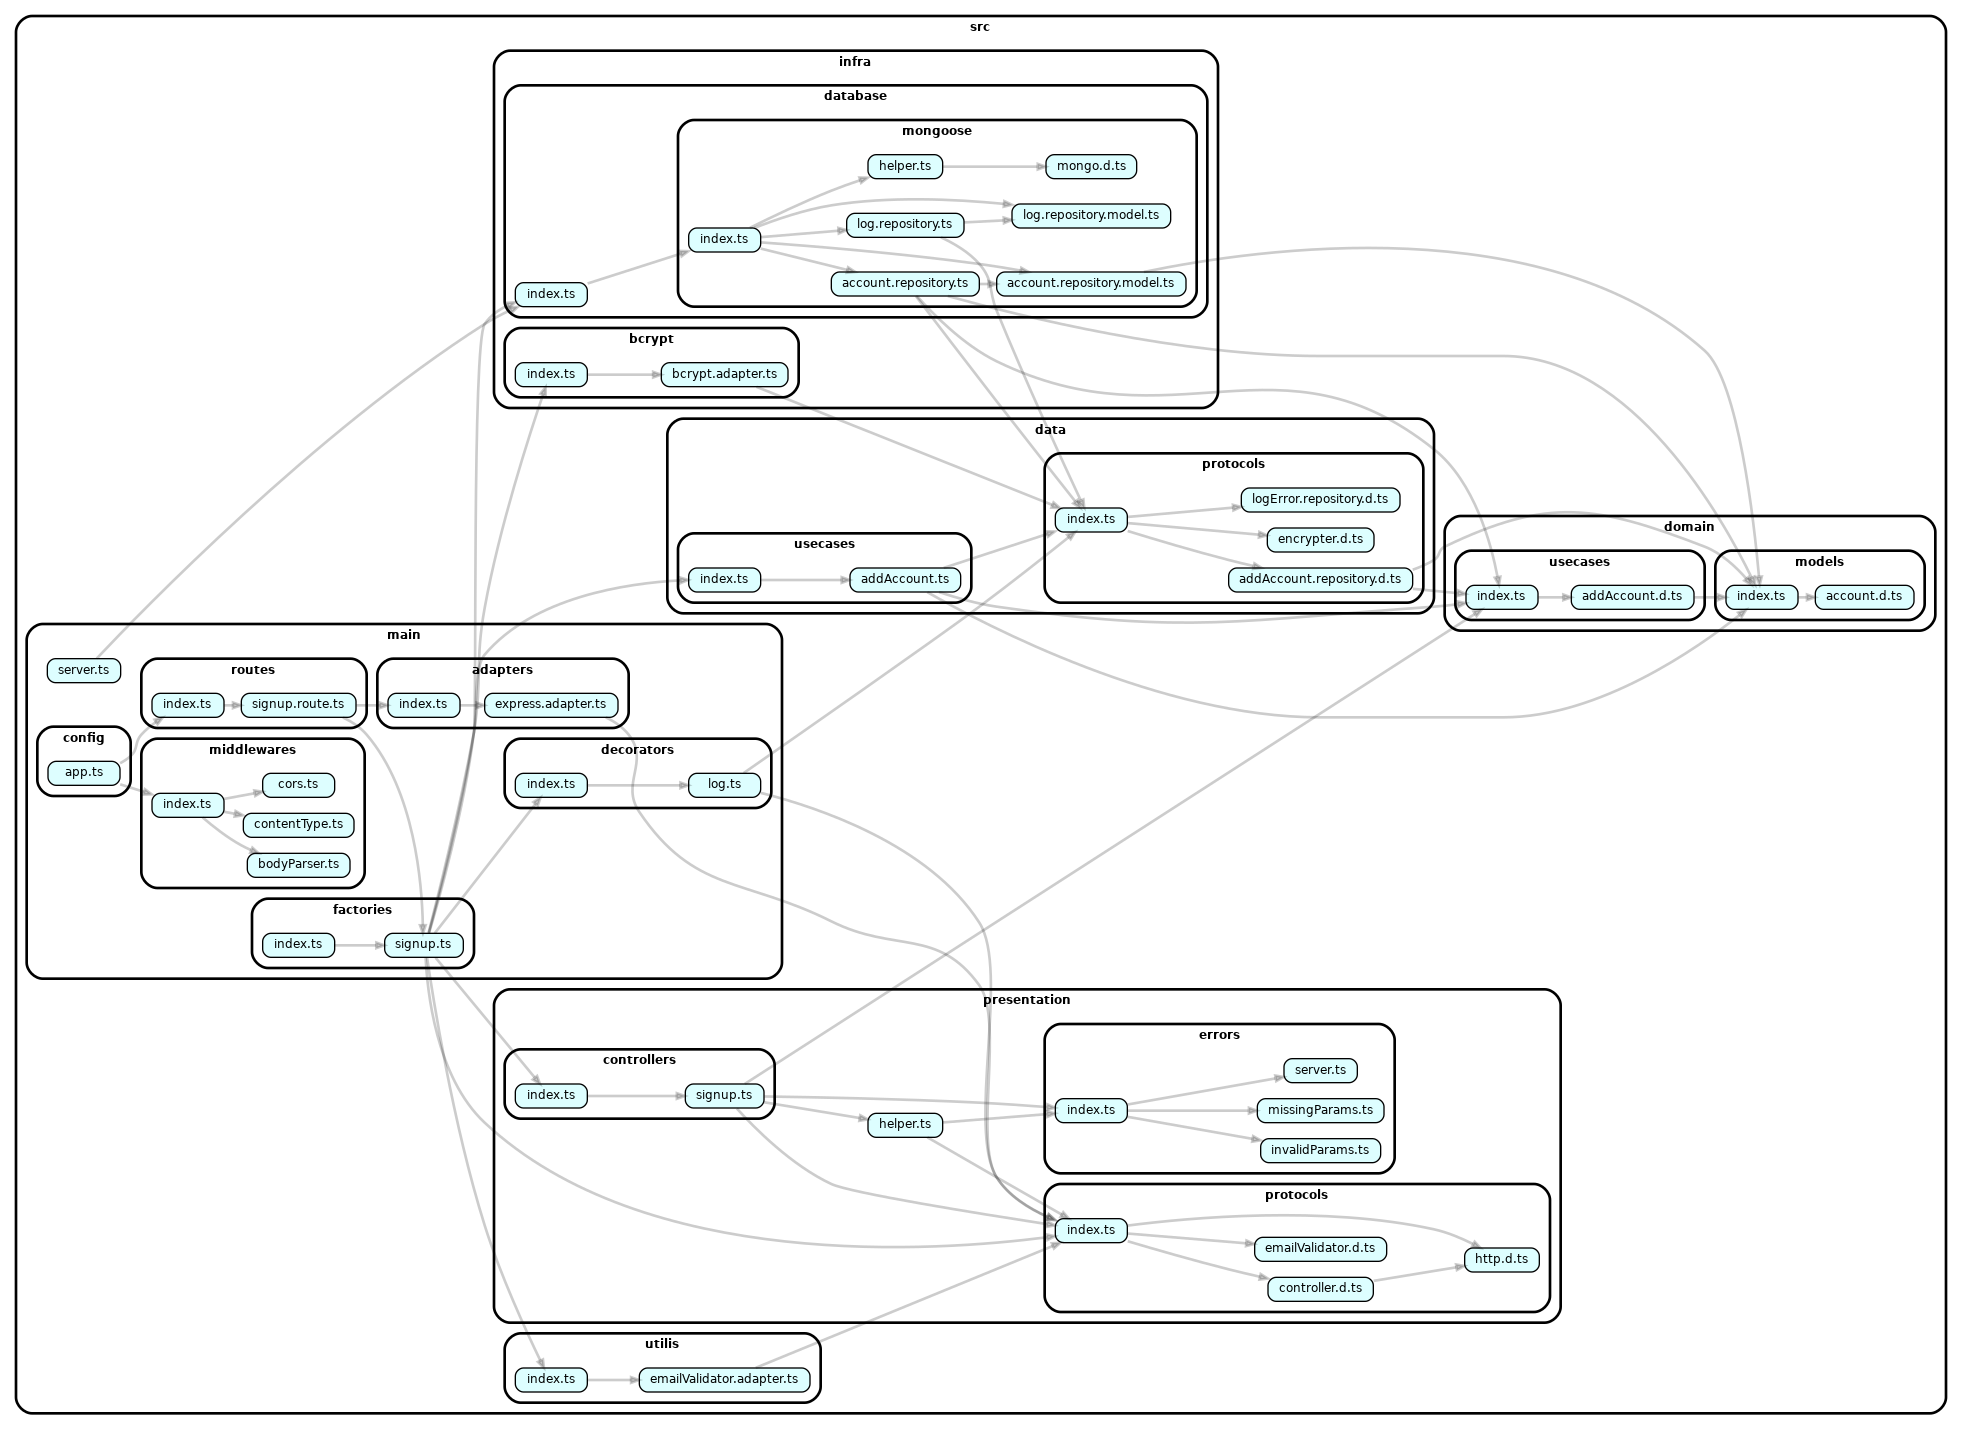
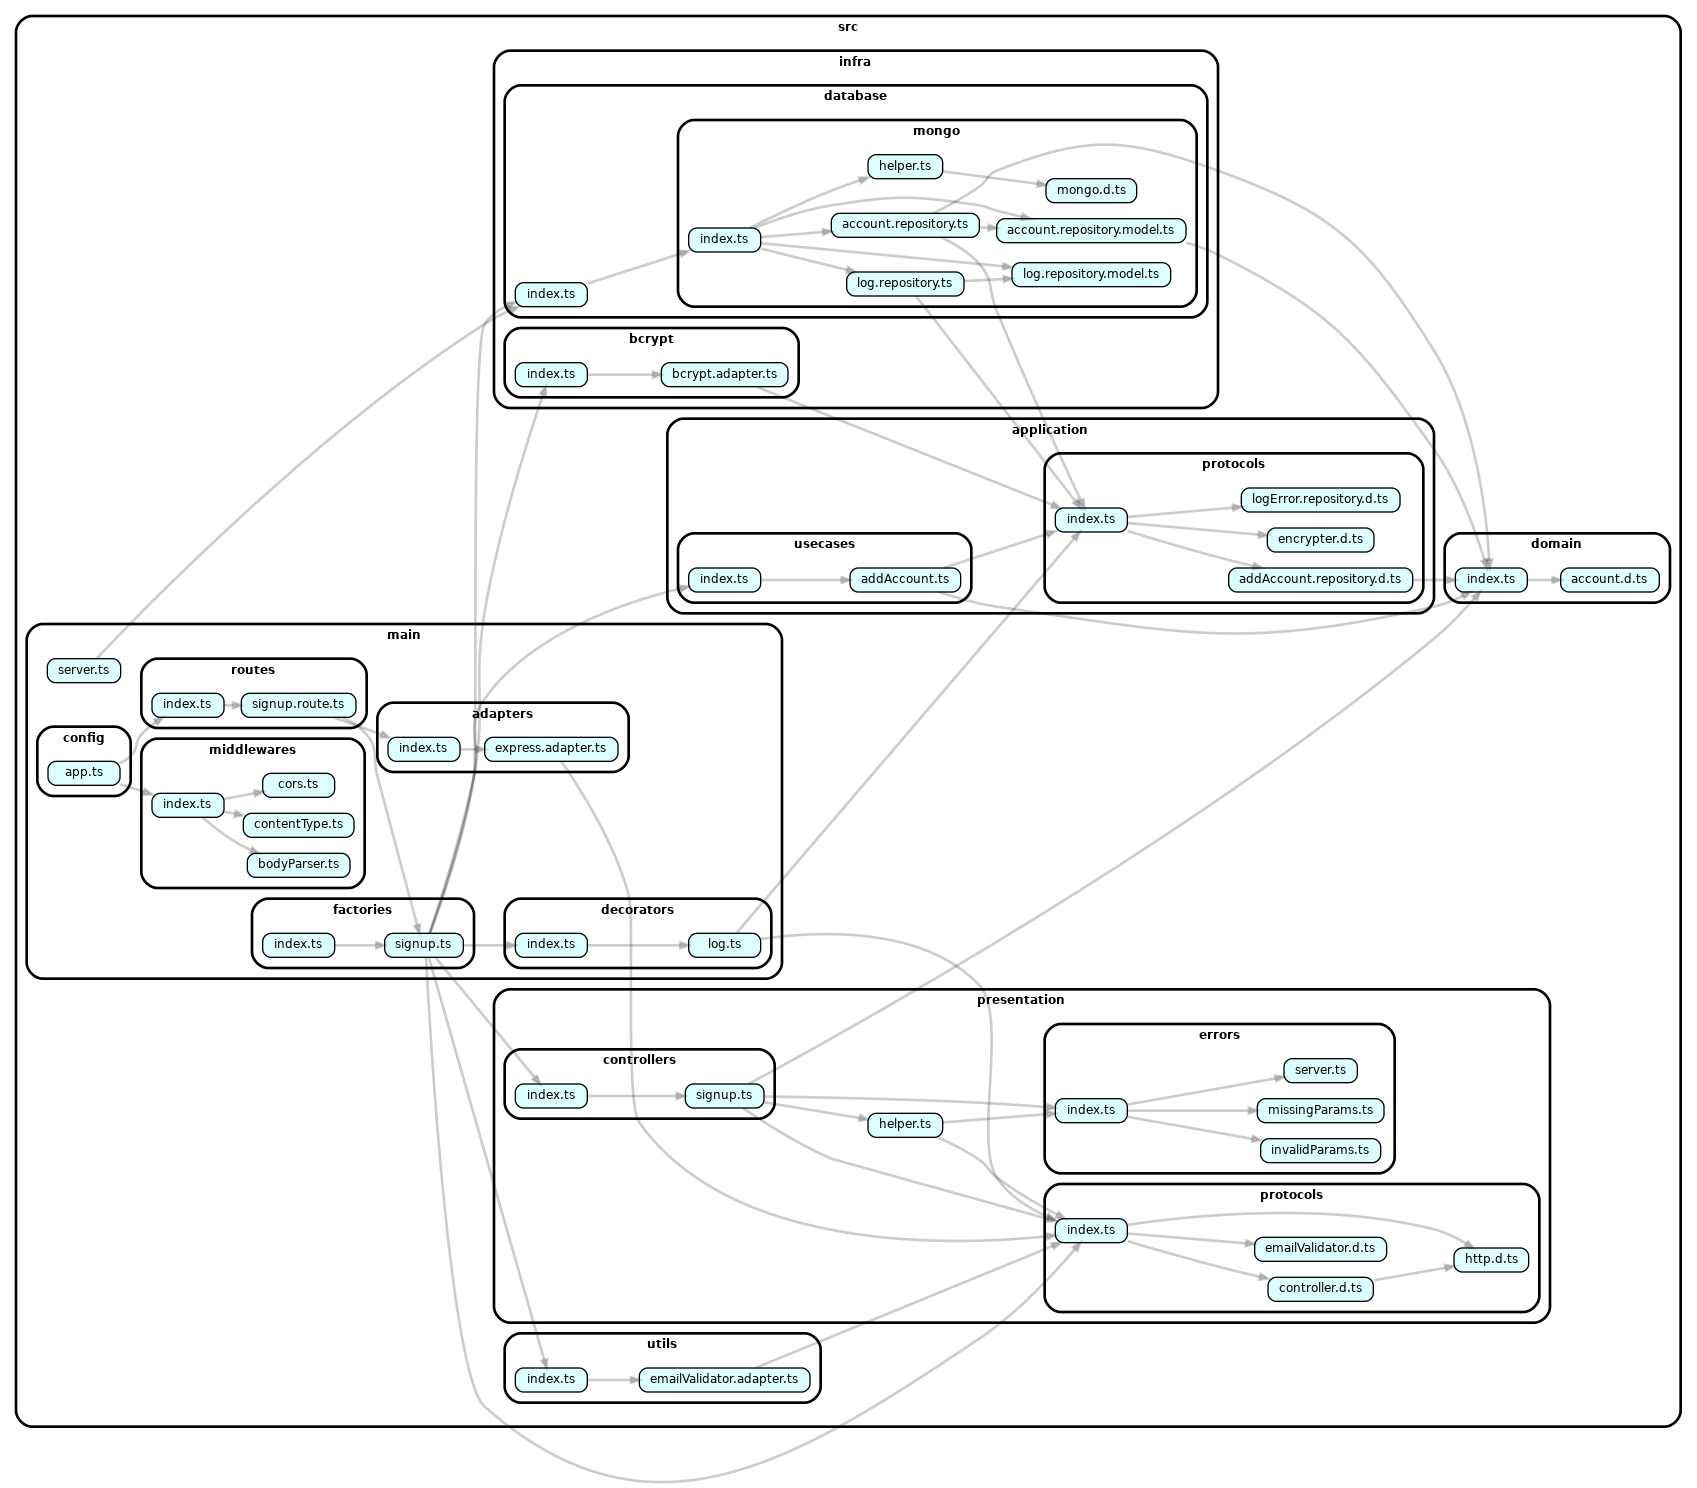
refacto: architecture project

diff --git a/src/infra/database/mongo/helper.ts b/src/infra/database/mongo/helper.ts
@@ -1,6 +1,17 @@
 import { MongoMemoryServer } from 'mongodb-memory-server'
 import mongoose from 'mongoose'
-import { IMongoHelper } from './mongo'
+
+interface IConnect {
+  name: string
+  ip: string
+  port: number
+}
+
+interface IMongoHelper {
+  mongoServer?: MongoMemoryServer
+  connect: (config: Partial<IConnect>) => Promise<void>
+  disconnect: () => Promise<void>
+}
 
 export const MongoHelper: IMongoHelper = {
   mongoServer: undefined,

diff --git a/src/presentation/controllers/signup.spec.ts b/src/presentation/controllers/signup.spec.ts
@@ -1,5 +1,4 @@
-import { IAccountModel } from '../../domain/models'
-import { IAddAccount, IAddAccountModel } from '../../domain/usecases'
+import { IAccountModel, IAddAccount, IAddAccountModel } from '../../domain'
 import { InvalidParamsError, MissingParamsError, ServerError } from '../errors'
 import { ok, badRequest, serverError } from '../helper'
 import { IEmailValidator, IHttpRequest } from '../protocols'

diff --git a/src/infra/database/mongo/account.repository.ts b/src/infra/database/mongo/account.repository.ts
@@ -1,6 +1,5 @@
 import { IAddAccountRepository } from '../../../application/protocols'
-import { IAccountModel } from '../../../domain/models'
-import { IAddAccountModel } from '../../../domain/usecases'
+import { IAccountModel, IAddAccountModel } from '../../../domain'
 import { AccountModelMongo } from './account.repository.model'
 
 export class AccountMongoRepository implements IAddAccountRepository {

diff --git a/src/domain/account.d.ts b/src/domain/account.d.ts
@@ -1,10 +1,11 @@
-import { IAccountModel } from '../models'
-
-export interface IAddAccountModel {
+export interface IAccountModel {
+  id: string
   name: string
   email: string
   password: string
 }
+
+export interface IAddAccountModel extends Omit<IAccountModel, 'id'> { }
 
 export interface IAddAccount {
   add: (account: IAddAccountModel) => Promise<IAccountModel>

diff --git a/src/application/usecases/addAccount.ts b/src/application/usecases/addAccount.ts
@@ -1,5 +1,5 @@
-import { IAccountModel } from '../../domain/models'
-import { IAddAccount, IAddAccountModel } from '../../domain/usecases'
+
+import { IAccountModel, IAddAccount, IAddAccountModel } from '../../domain'
 import { IAddAccountRepository, IEncrypter } from '../protocols'
 
 export class AddAccount implements IAddAccount {

diff --git a/src/presentation/controllers/signup.ts b/src/presentation/controllers/signup.ts
@@ -1,4 +1,4 @@
-import { IAddAccount } from '../../domain/usecases'
+import { IAddAccount } from '../../domain'
 import { InvalidParamsError, MissingParamsError } from '../errors'
 import { badRequest, ok, serverError } from '../helper'
 import { IController, IHttpRequest, IHttpResponse, IEmailValidator } from '../protocols'

diff --git a/src/application/usecases/addAccount.spec.ts b/src/application/usecases/addAccount.spec.ts
@@ -1,5 +1,5 @@
-import { IAccountModel } from '../../domain/models'
-import { IAddAccountModel } from '../../domain/usecases'
+
+import { IAccountModel, IAddAccountModel } from '../../domain'
 import { IAddAccountRepository, IEncrypter } from '../protocols'
 import { AddAccount } from './addAccount'
 

diff --git a/src/application/protocols/addAccount.repository.d.ts b/src/application/protocols/addAccount.repository.d.ts
@@ -1,5 +1,4 @@
-import { IAccountModel } from '../../domain/models'
-import { IAddAccountModel } from '../../domain/usecases'
+import { IAccountModel, IAddAccountModel } from '../../domain'
 
 export interface IAddAccountRepository {
   add: (accountData: IAddAccountModel) => Promise<IAccountModel>

diff --git a/src/infra/database/mongo/account.repository.model.ts b/src/infra/database/mongo/account.repository.model.ts
@@ -1,5 +1,5 @@
 import { model, Schema } from 'mongoose'
-import { IAccountModel } from '../../../domain/models'
+import { IAccountModel } from '../../../domain'
 
 interface IAccountModelDoc extends IAccountModel, Document {}
 
